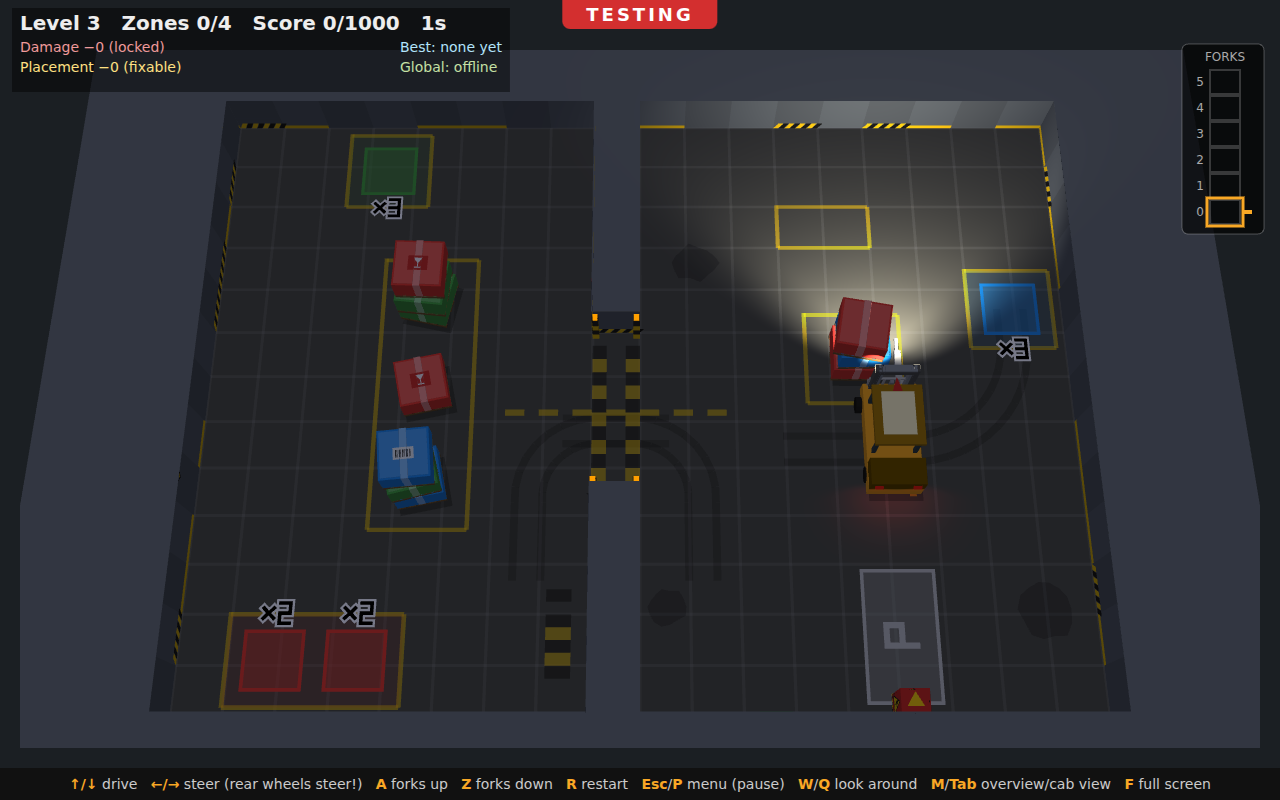
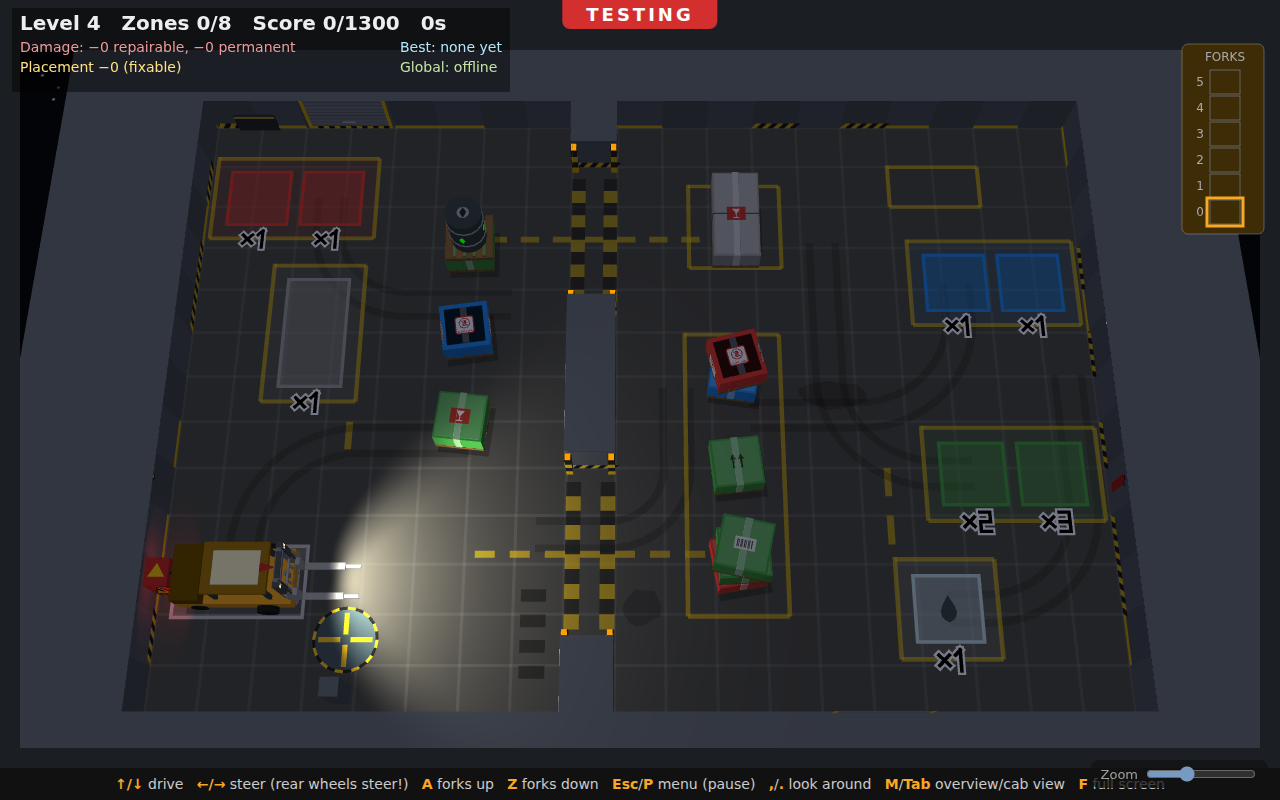
Document warehouse bots and skid marks

diff --git a/docs/presentation.html b/docs/presentation.html
@@ -46,7 +46,7 @@
   <h1>Pallet Polka</h1>
   <div class="sub" style="color:#ffc933;font-weight:bold">Stack the boxes. Park the forklift. Mind the tail swing.</div>
   <div class="sub" style="margin-top:2vh">The development timeline of a forklift puzzle game</div>
-  <div class="sub" style="margin-top:3vh">21 October – 23 November 2026 · 944 commits as of c8e8844 · vanilla JS + Canvas 2D · no build, no dependencies</div>
+  <div class="sub" style="margin-top:3vh">21 October – 24 November 2026 · 957 commits as of 11d2c78 · vanilla JS + Canvas 2D · no build, no dependencies</div>
   <div class="sub" style="margin-top:6vh;font-size:1.4vw">← / → or Space to navigate</div>
 </section>
 
@@ -59,10 +59,10 @@
     <li>Plain web page: no installs, no libraries, plays on desktop and phone</li>
   </ul>
   <div class="stats">
-    <div class="stat"><b>~11.6k</b><span>lines of JS</span></div>
-    <div class="stat"><b>944</b><span>commits</span></div>
+    <div class="stat"><b>~12.7k</b><span>lines of JS</span></div>
+    <div class="stat"><b>957</b><span>commits</span></div>
     <div class="stat"><b>0</b><span>dependencies</span></div>
-    <div class="stat"><b>34</b><span>days (30 with commits)</span></div>
+    <div class="stat"><b>35</b><span>days (31 with commits)</span></div>
   </div>
 </section>
 
@@ -500,6 +500,20 @@
 </section>
 
 <section class="slide">
+  <div class="date">Day 35 · 24 Nov</div>
+  <h2>Busy bots and fresh tracks</h2>
+  <div class="row">
+  <ul>
+    <li>Curious warehouse bots watch the forklift and make way for colleagues on a job</li>
+    <li>Safety bots mark hazards with cones and tape; nearby trucks trigger cone beacons</li>
+    <li>Fast turns and wall impacts can leave fresh skid marks for the cleaner</li>
+    <li>Oil takes priority, and old factory floor decals stay put</li>
+  </ul>
+  <figure><img src="shots/28-bots-and-skids.png" alt=""><figcaption>Warehouse bots and fresh wheel marks · 11d2c78</figcaption></figure>
+  </div>
+</section>
+
+<section class="slide">
   <h2>Where it ended up</h2>
   <div style="display:flex;gap:2vw;align-items:flex-start;justify-content:center">
     <figure style="margin:0;flex:1"><img src="shots/06-overview-latest.png" alt=""><figcaption style="text-align:center">Overview in 3D: fork gauge, yellow drop-off outlines, doorway beacons</figcaption></figure>
@@ -536,9 +550,10 @@
     <li><b>16 – 21 Nov</b> – onboarding tips, battery saver, free fork alignment, fluid hard-mode forks, gamepad cameras, controller rumble</li>
     <li><b>22 Nov</b> – observer hosting, phone vibration and rebuilt hard-mode handling</li>
     <li><b>23 Nov</b> – multiplayer voting and observer round readiness</li>
+    <li><b>24 Nov</b> – curious bots, safety markings, cabin roof and cleanable skid marks</li>
   </ul>
-  <div class="bar"><div class="on"></div><div></div><div class="on"></div><div class="on"></div><div class="on"></div><div class="on"></div><div class="on"></div><div class="on"></div><div class="on"></div><div></div><div class="on"></div><div class="on"></div><div class="on"></div><div class="on"></div><div class="on"></div><div></div><div></div><div class="on"></div><div class="on"></div><div class="on"></div><div class="on"></div><div class="on"></div><div class="on"></div><div class="on"></div><div class="on"></div><div class="on"></div><div class="on"></div><div class="on"></div><div class="on"></div><div class="on"></div><div class="on"></div><div class="on"></div><div class="on"></div><div class="on"></div></div>
-  <div class="sub" style="margin-top:1vh;font-size:1.3vw">21 Oct – 23 Nov, 34 days (30 with commits; none on 22 Oct, 30 Oct, 5 and 6 Nov) · 944 commits as of c8e8844</div>
+  <div class="bar"><div class="on"></div><div></div><div class="on"></div><div class="on"></div><div class="on"></div><div class="on"></div><div class="on"></div><div class="on"></div><div class="on"></div><div></div><div class="on"></div><div class="on"></div><div class="on"></div><div class="on"></div><div class="on"></div><div></div><div></div><div class="on"></div><div class="on"></div><div class="on"></div><div class="on"></div><div class="on"></div><div class="on"></div><div class="on"></div><div class="on"></div><div class="on"></div><div class="on"></div><div class="on"></div><div class="on"></div><div class="on"></div><div class="on"></div><div class="on"></div><div class="on"></div><div class="on"></div><div class="on"></div></div>
+  <div class="sub" style="margin-top:1vh;font-size:1.3vw">21 Oct – 24 Nov, 35 days (31 with commits; none on 22 Oct, 30 Oct, 5 and 6 Nov) · 957 commits as of 11d2c78</div>
 </section>
 
 <section class="slide" style="flex-direction:row;align-items:center;justify-content:space-between">
@@ -554,7 +569,7 @@
 
 <div id="nav"></div>
 <script>
-  const perDay = {"21 Oct":[851,243,23,147,109,14,24,65,40,57,56,1,54,2,4,121,33,23,35,28,35,63,78,169,141,2,86,50,87,10,7,6,12,104,118,83,18,43,21,14,7,39,15,3,0,41,13,44,2,18,40,17,106,19,19,52,78,14,4,7,0,11,0,52,11,13,12,4,25,6,29,55,7,0,39,8,2,4,2],"22 Oct":[],"23 Oct":[100,46,48,35,30,29,53,0,86,0,67,176,2,0,105,35,84,21,16,29,11,22,399,55,25,35,88,17],"24 Oct":[50,0,19,0,51,0,16,0,250,21,129,39,29,75,2,0,19,25,31,2,10,74,44,90,36,23],"25 Oct":[20,26,107,6,14,20,202,62,41,42,156,194,96,28,0,132,7,4,18,36,3,96,41,4,58,187,28,28,0,3,59,8,126,4,50,10,7,0,43,70,72,6,6,9,152,8,2,57,4],"26 Oct":[33,0,48,6,21,100,1,0],"27 Oct":[8,8,0,11,0,20,0,2,2,14,0,43,2,2,6,6,4,27,33,11,25,15,41,9],"28 Oct":[9,0,12,0,10,8,23,112,8,25,1,62,16,53,18,17,31,20,2,11,11,147,0,10,4,2,0,1,1,1,1161],"29 Oct":[9,9,10,2,46,37,2,6,27,24,127,18,24,28,1,1,155,0,2,86,35,2,0,13,15,4,72,10,0,3],"30 Oct":[],"31 Oct":[32,0,0,19,3,5],"1 Nov":[83,77,61,12,0,26,0,0,10,0,5,0,6,2,0,0,18,72,0,7,7,0,14,24,0,91,2,10,2,4,20,0,4,0],"2 Nov":[15,0,40,0,64,18,0,30,0,0,12,0,58,10,25,66,79,7,0,0,0,14],"3 Nov":[8],"4 Nov":[22,12,0,46,0,3,2,0,2,4,0,140,36,24,43,17,2,34,2,10,0,0,115,0],"5 Nov":[],"6 Nov":[],"7 Nov":[171,54,0,96,2,0,0,3,0,69,104,42,12,6,0,65,3,0,0,966,21,140,0,0,82,0,59,0,98,20,2,0,5,0,8,0,8,2],"8 Nov":[40,63,10,6,8,0,6,0,51,7,4,14,6,18,23,15,27,0,17,0,15,0,8,0,4,7,81,50,11,10,48,36,27,25,0,37,0,8,0,76,0,9,23,6,16,21,0,8,0,107,73,24,0,68,0,37,9,33,0,7,0,8,0,113,0,0,241,1,0,0],"9 Nov":[78,8,0,14,0,21,0,58,3,4,0,14,15,11,27,102,0,0,9,3,3,0,3,13,11,0,200,84],"10 Nov":[320,114,725,21,135,5,145,62,0,124,19,15,70,35,18,5,29,4,0,0,27,250,22,44,31,8,8,16,2,32,14,15,11,45,3,14,42,62,51,17,10,7,69,45,40,32,0,33,8,0,0,329,25,18,2,2,84],"11 Nov":[23,23,134,14,2,13,49,102,76,42,0,342,68,59,8,93,18,87,167,4,43,47,47,58,28,6,41,29,0,57,0,3,0,12,49,44,22,2,29,19,24,0,4,4,2,11,0],"12 Nov":[38,0,34,11,60,4,98,6,7,4,74,45,9,74,58,111,104,106,10,11,52,11,12,15,2,2,201,2,2,11,2,2,10,0,2,3,2,0,0,20,1,1,0,63,2,10,23,9,5,28,2,0,74,4,7,33,24,34,0,80],"13 Nov":[13,13,19,36,17,49,4,11,2,0,118,64,26,13,0],"14 Nov":[287,41,140,79,68,34,11,21,5,4477,25,0,102,119,14,0,180,13,5,98,38,14,8,29,15,22,27,6,264,97,130,0,32,101,47],"15 Nov":[175,10,74,52,74,175,121,52,0,744,0,27,117,47,10,12,31],"16 Nov":[10,18,0,0,110,20,6,14,0,437,20,41,23,1,0,653,0,27,76,35,53,2,61,40,23,25,7,0,0,140,36,0],"17 Nov":[19,23,25,16,29,57,28,0,66,243,109,57,2,23,8,4,2,57,73,137,64,33,0,88,45,50,21,53,16,0,27,0,20,7,0,17,6,17,6,9,7,0,39,34,26,78,0,0,12,34],"18 Nov":[92,8,23,12,0,315,0,0,20,2,0,57,60,6,6,78,21,0,0,69,106,77,12,16,50,70,0,2,0,0,0,42,0,22,124,106,32,0,0,0],"19 Nov":[504,0,90,0,0,172,57,0,50,0,157,199,4,52,0,53,53,0,17],"20 Nov":[13,210,0,136,0,0,428,0,41,164,0,582,19],"21 Nov":[100,32,40,0,527,4,2,4,0,132,20,34,27,22,32,33,83,0,160,175,61,14,3,0,37,0,0,42,0,0,54,154,0,0,453,0,2,0,0],"22 Nov":[51,0,73,335,25,471,0,63,0,1245,0,43,0,28,0],"23 Nov":[81,60,280,16,594,0,383]};
+  const perDay = {"21 Oct":[851,243,23,147,109,14,24,65,40,57,56,1,54,2,4,121,33,23,35,28,35,63,78,169,141,2,86,50,87,10,7,6,12,104,118,83,18,43,21,14,7,39,15,3,0,41,13,44,2,18,40,17,106,19,19,52,78,14,4,7,0,11,0,52,11,13,12,4,25,6,29,55,7,0,39,8,2,4,2],"22 Oct":[],"23 Oct":[100,46,48,35,30,29,53,0,86,0,67,176,2,0,105,35,84,21,16,29,11,22,399,55,25,35,88,17],"24 Oct":[50,0,19,0,51,0,16,0,250,21,129,39,29,75,2,0,19,25,31,2,10,74,44,90,36,23],"25 Oct":[20,26,107,6,14,20,202,62,41,42,156,194,96,28,0,132,7,4,18,36,3,96,41,4,58,187,28,28,0,3,59,8,126,4,50,10,7,0,43,70,72,6,6,9,152,8,2,57,4],"26 Oct":[33,0,48,6,21,100,1,0],"27 Oct":[8,8,0,11,0,20,0,2,2,14,0,43,2,2,6,6,4,27,33,11,25,15,41,9],"28 Oct":[9,0,12,0,10,8,23,112,8,25,1,62,16,53,18,17,31,20,2,11,11,147,0,10,4,2,0,1,1,1,1161],"29 Oct":[9,9,10,2,46,37,2,6,27,24,127,18,24,28,1,1,155,0,2,86,35,2,0,13,15,4,72,10,0,3],"30 Oct":[],"31 Oct":[32,0,0,19,3,5],"1 Nov":[83,77,61,12,0,26,0,0,10,0,5,0,6,2,0,0,18,72,0,7,7,0,14,24,0,91,2,10,2,4,20,0,4,0],"2 Nov":[15,0,40,0,64,18,0,30,0,0,12,0,58,10,25,66,79,7,0,0,0,14],"3 Nov":[8],"4 Nov":[22,12,0,46,0,3,2,0,2,4,0,140,36,24,43,17,2,34,2,10,0,0,115,0],"5 Nov":[],"6 Nov":[],"7 Nov":[171,54,0,96,2,0,0,3,0,69,104,42,12,6,0,65,3,0,0,966,21,140,0,0,82,0,59,0,98,20,2,0,5,0,8,0,8,2],"8 Nov":[40,63,10,6,8,0,6,0,51,7,4,14,6,18,23,15,27,0,17,0,15,0,8,0,4,7,81,50,11,10,48,36,27,25,0,37,0,8,0,76,0,9,23,6,16,21,0,8,0,107,73,24,0,68,0,37,9,33,0,7,0,8,0,113,0,0,241,1,0,0],"9 Nov":[78,8,0,14,0,21,0,58,3,4,0,14,15,11,27,102,0,0,9,3,3,0,3,13,11,0,200,84],"10 Nov":[320,114,725,21,135,5,145,62,0,124,19,15,70,35,18,5,29,4,0,0,27,250,22,44,31,8,8,16,2,32,14,15,11,45,3,14,42,62,51,17,10,7,69,45,40,32,0,33,8,0,0,329,25,18,2,2,84],"11 Nov":[23,23,134,14,2,13,49,102,76,42,0,342,68,59,8,93,18,87,167,4,43,47,47,58,28,6,41,29,0,57,0,3,0,12,49,44,22,2,29,19,24,0,4,4,2,11,0],"12 Nov":[38,0,34,11,60,4,98,6,7,4,74,45,9,74,58,111,104,106,10,11,52,11,12,15,2,2,201,2,2,11,2,2,10,0,2,3,2,0,0,20,1,1,0,63,2,10,23,9,5,28,2,0,74,4,7,33,24,34,0,80],"13 Nov":[13,13,19,36,17,49,4,11,2,0,118,64,26,13,0],"14 Nov":[287,41,140,79,68,34,11,21,5,4477,25,0,102,119,14,0,180,13,5,98,38,14,8,29,15,22,27,6,264,97,130,0,32,101,47],"15 Nov":[175,10,74,52,74,175,121,52,0,744,0,27,117,47,10,12,31],"16 Nov":[10,18,0,0,110,20,6,14,0,437,20,41,23,1,0,653,0,27,76,35,53,2,61,40,23,25,7,0,0,140,36,0],"17 Nov":[19,23,25,16,29,57,28,0,66,243,109,57,2,23,8,4,2,57,73,137,64,33,0,88,45,50,21,53,16,0,27,0,20,7,0,17,6,17,6,9,7,0,39,34,26,78,0,0,12,34],"18 Nov":[92,8,23,12,0,315,0,0,20,2,0,57,60,6,6,78,21,0,0,69,106,77,12,16,50,70,0,2,0,0,0,42,0,22,124,106,32,0,0,0],"19 Nov":[504,0,90,0,0,172,57,0,50,0,157,199,4,52,0,53,53,0,17],"20 Nov":[13,210,0,136,0,0,428,0,41,164,0,582,19],"21 Nov":[100,32,40,0,527,4,2,4,0,132,20,34,27,22,32,33,83,0,160,175,61,14,3,0,37,0,0,42,0,0,54,154,0,0,453,0,2,0,0],"22 Nov":[51,0,73,335,25,471,0,63,0,1245,0,43,0,28,0,0],"23 Nov":[81,60,280,16,594,0,383,36,0,0],"24 Nov":[1827,498,0,27,244,205,69,102,410]};
   const chart = document.getElementById('chart');
   for (const [day, commits] of Object.entries(perDay)) {
     const total = commits.reduce((a, b) => a + b, 0);

diff --git a/docs/devlog.html b/docs/devlog.html
@@ -27,9 +27,9 @@
 <body>
 <header>
   <h1>Pallet Polka – Devlog</h1>
-  <p>57 milestones from the first prototype to today, newest features last. Bug fixes, refactors and tooling are skipped; each entry names the commit it was captured from. Screenshots and animations are taken from the actual game at that commit (see <code>docs/PRESENTATION_GUIDE.md</code>). The shorter slide deck is <a href="presentation.html" style="color:#6fb1ff">presentation.html</a>.</p>
+  <p>61 milestones from the first prototype to today, newest features last. Bug fixes, refactors and tooling are skipped; each entry names the commit it was captured from. Screenshots and animations are taken from the actual game at that commit (see <code>docs/PRESENTATION_GUIDE.md</code>). The shorter slide deck is <a href="presentation.html" style="color:#6fb1ff">presentation.html</a>.</p>
 </header>
-<nav><a href="#d2026-10-21">10-21</a><a href="#d2026-10-23">10-23</a><a href="#d2026-10-24">10-24</a><a href="#d2026-10-25">10-25</a><a href="#d2026-10-28">10-28</a><a href="#d2026-10-29">10-29</a><a href="#d2026-11-01">11-01</a><a href="#d2026-11-04">11-04</a><a href="#d2026-11-07">11-07</a><a href="#d2026-11-08">11-08</a><a href="#d2026-11-09">11-09</a><a href="#d2026-11-10">11-10</a><a href="#d2026-11-12">11-12</a><a href="#d2026-11-14">11-14</a><a href="#d2026-11-15">11-15</a><a href="#d2026-11-21">11-21</a><a href="#d2026-11-22">11-22</a><a href="#d2026-11-23">11-23</a></nav>
+<nav><a href="#d2026-10-21">10-21</a><a href="#d2026-10-23">10-23</a><a href="#d2026-10-24">10-24</a><a href="#d2026-10-25">10-25</a><a href="#d2026-10-28">10-28</a><a href="#d2026-10-29">10-29</a><a href="#d2026-11-01">11-01</a><a href="#d2026-11-04">11-04</a><a href="#d2026-11-07">11-07</a><a href="#d2026-11-08">11-08</a><a href="#d2026-11-09">11-09</a><a href="#d2026-11-10">11-10</a><a href="#d2026-11-12">11-12</a><a href="#d2026-11-14">11-14</a><a href="#d2026-11-15">11-15</a><a href="#d2026-11-21">11-21</a><a href="#d2026-11-22">11-22</a><a href="#d2026-11-23">11-23</a><a href="#d2026-11-24">11-24</a></nav>
 <main>
 <section class="day" id="d2026-10-21"><h2><span>2026-10-21</span> The prototype</h2>
 <article><div class="shots"><img src="devlog/01-prototype-anim.webp" loading="lazy" alt="First prototype"></div><div class="txt"><h3>First prototype</h3><p>Top-down forklift on a tiled floor. A rear-wheel-steering bicycle model makes the tail swing out; push coloured boxes onto matching zones.</p><code>6974f64</code></div></article>
@@ -123,6 +123,12 @@
 </section>
 <section class="day" id="d2026-11-23"><h2><span>2026-11-23</span> Deciding together</h2>
 <article><div class="shots"><img src="devlog/57-multiplayer-vote.webp" loading="lazy" alt="A local multiplayer vote to switch to hard mode"></div><div class="txt"><h3>Multiplayer votes and observer rounds</h3><p>Players can vote anonymously on modes, levels and removing a player in online or local games. Observer rounds now have a ready-up countdown and shared scores that include everyone who participated.</p><code>c8e8844</code></div></article>
+</section>
+<section class="day" id="d2026-11-24"><h2><span>2026-11-24</span> Warehouse helpers</h2>
+<article><div class="shots"><img src="devlog/58-bots-and-skids.webp" loading="lazy" alt="Warehouse bots working near drop zones"></div><div class="txt"><h3>Curious bots and safety work</h3><p>Warehouse bots watch nearby forklifts and make way for colleagues on a job. Safety helpers put out cones and tape to mark hazards and completed areas.</p><code>11d2c78</code></div></article>
+<article><div class="shots"><img src="devlog/59-cabin-roof.webp" loading="lazy" alt="Cabin view with a roof panel"></div><div class="txt"><h3>A roof over the cab</h3><p>The 3D forklift cabin gains a roof panel above the driver.</p><code>11d2c78</code></div></article>
+<article><div class="shots"><img src="devlog/58-bots-and-skids.webp" loading="lazy" alt="Warehouse with safety helpers"></div><div class="txt"><h3>Safety beacons</h3><p>Working bots flash their beacons, and nearby forklifts trigger lights on safety cones.</p><code>11d2c78</code></div></article>
+<article><div class="shots"><img src="devlog/58-bots-and-skids.webp" loading="lazy" alt="A cleaner working near fresh wheel marks"></div><div class="txt"><h3>Fresh skid marks</h3><p>Fast sustained turns and wall impacts can leave wheel marks. The cleaning bot clears fresh marks quickly, prioritises oil spills, and leaves the old floor decals alone.</p><code>11d2c78</code></div></article>
 </section>
 </main>
 </body>
